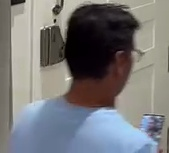
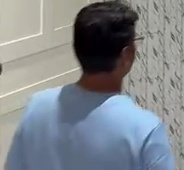
Fix registry search bug by separating face and body matching passes, ensuring highest similarity wins

diff --git a/mini_app/main.py b/mini_app/main.py
@@ -130,26 +130,28 @@ def search_registry(face_vec, body_vec):
 
     with get_db() as conn:
         rows = conn.execute("SELECT name, face_vector, body_vector FROM enrolled_identities").fetchall()
-        for row in rows:
-            name = row["name"]
-            
-            # 1. Try Face Match (high accuracy)
-            if face_vec is not None and row["face_vector"]:
-                db_face = json.loads(row["face_vector"])
-                sim = cosine_similarity(face_vec, db_face)
-                if sim > 0.68 and sim > best_sim:
-                    best_sim = sim
-                    best_name = name
-                    matched_via = "face"
+        
+        # 1. Try Face Match (high accuracy) across all enrolled identities
+        if face_vec is not None:
+            for row in rows:
+                if row["face_vector"]:
+                    db_face = json.loads(row["face_vector"])
+                    sim = cosine_similarity(face_vec, db_face)
+                    if sim > 0.68 and sim > best_sim:
+                        best_sim = sim
+                        best_name = row["name"]
+                        matched_via = "face"
 
-            # 2. Try Body Re-ID Match (fallback)
-            if row["body_vector"] and body_vec is not None and best_name is None:
-                db_body = json.loads(row["body_vector"])
-                sim = cosine_similarity(body_vec, db_body)
-                if sim > 0.72 and sim > best_sim:
-                    best_sim = sim
-                    best_name = name
-                    matched_via = "body"
+        # 2. Try Body Re-ID Match (fallback) across all enrolled identities, only if no face match was found
+        if best_name is None and body_vec is not None:
+            for row in rows:
+                if row["body_vector"]:
+                    db_body = json.loads(row["body_vector"])
+                    sim = cosine_similarity(body_vec, db_body)
+                    if sim > 0.72 and sim > best_sim:
+                        best_sim = sim
+                        best_name = row["name"]
+                        matched_via = "body"
 
     return best_name, best_sim, matched_via
 
